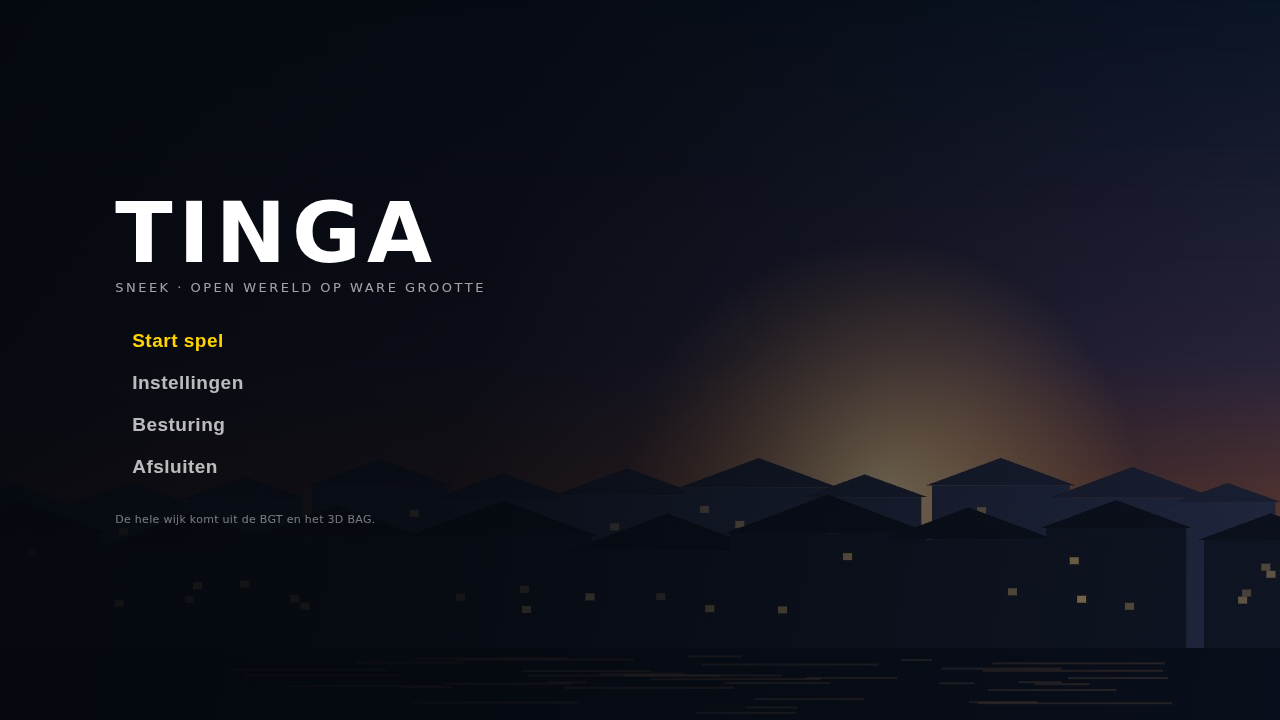
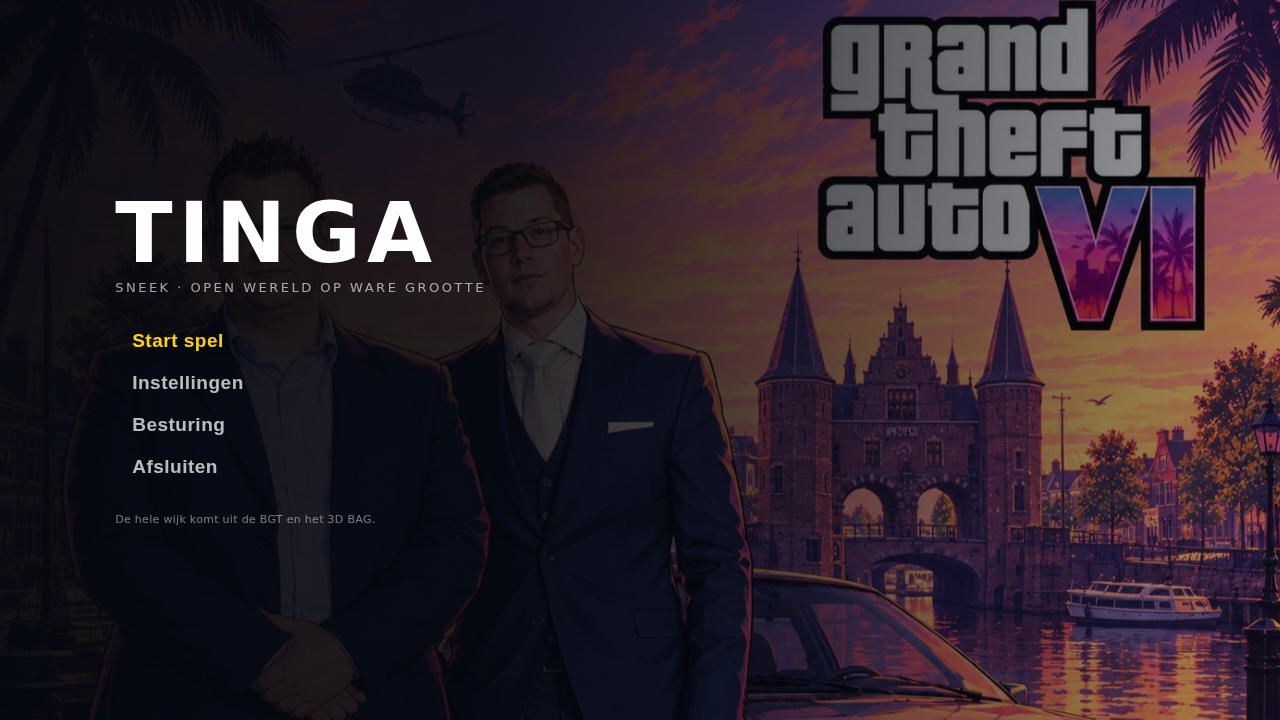
Het aangeleverde beeld op het start- en laadscherm, met langzame inzoom
De gebruiker leverde een affiche aan: de wijk in GTA-VI-stijl. Dat staat nu
op het startscherm en op het laadscherm, in plaats van het silhouet dat
menu.js zelf tekende. Dat nooddoek blijft er wel: is de lijst leeg of laadt
een bestand niet, dan wordt het weer getekend.

Het beeld zoomt in achtentwintig seconden tien procent in, met de vaart er
langzaam uit. Hoever, welk deel in beeld blijft op een breder scherm, en
welke titel er onderin staat, staat per beeld in beelden.json.

Drie dingen moesten kloppen. Het donkere verloop dat de tekst leesbaar
houdt stond als ::after op het doek zelf en zoomde dus mee - de onderrand
schoof binnen een halve minuut het scherm af. Het is nu een eigen laag
eroverheen. Het zoompunt ligt hoog (transform-origin 50% 18%): het affiche
is vier staand op vijf breed en het scherm zestien op negen, dus er gaat
dertig procent van de hoogte af, en om het midden zoomend loopt de titel
van het affiche uit beeld. En een CSS-animatie start alleen opnieuw als hij
eerst van het element af is, vandaar de void offsetWidth ertussen.

Het beeld is met de meegeleverde Chromium van 2,4 MB PNG naar 411 kB JPEG
gebracht; er is in dit project geen beeldgereedschap, maar een canvas kan
het ook. Het gaat mee in de repository, dus voor een openbare versie hoort
daar net als bij de radiomuziek eigen of rechtenvrij werk te staan - dat
staat in beeld/laadscherm/LEESMIJ.md.

Controle: npm run menutest (achttien controles, alles goed; drie nieuwe:
[…]

diff --git a/js/menu.js b/js/menu.js
@@ -19,6 +19,12 @@
  van de wijk bij zonsondergang. Zo werkt het scherm ook zonder dat er ooit een
  plaatje bij komt, en dat is de enige plek in het spel waar een afbeelding uit
  een bestand mag komen.
+
+ Het beeld staat niet stil: het zoomt in achtentwintig seconden een procent of
+ twaalf in, met de vaart er langzaam uit (dezelfde truc als op een echt
+ GTA-laadscherm). Hoever, staat per beeld in `beelden.json`. Het verloop dat de
+ tekst leesbaar houdt ligt in een eigen laag eroverheen en zoomt dus niet mee —
+ anders schuift de donkere onderkant het scherm af terwijl je kijkt.
 */
 
 const TIPS = [
@@ -105,7 +111,38 @@ export async function laadBeelden(pad = 'beeld/laadscherm/beelden.json') {
     beelden = (j.beelden || []).filter(b => b && b.bestand)
       .map(b => ({ ...b, url: pad.replace(/[^/]*$/, '') + b.bestand }));
   } catch { /* geen lijst: het nooddoek doet het ook */ }
+  // het menu staat er al voordat deze lijst binnen is: dan nu pas het echte beeld
+  if (beelden.length && el && el.doek) zetDoek(el.doek, kiesBeeld());
   return beelden;
+}
+
+/*
+ Een achtergrond op een doek zetten en hem langzaam laten inzoomen — zoals een
+ GTA-laadscherm, dat nooit helemaal stilstaat. De animatie moet per keer opnieuw
+ starten; een CSS-animatie doet dat alleen als hij eerst van het element af is,
+ vandaar het lezen van offsetWidth ertussen (dat dwingt de browser tot een
+ herberekening).
+*/
+function zetDoek(doel, b, zoomen = true) {
+  if (!doel) return;
+  doel.style.backgroundImage = `url(${b ? b.url : nooddoek()})`;
+  doel.style.backgroundPosition = (b && b.focus) || 'center';
+  doel.classList.remove('zoomt');
+  if (!zoomen || !b) { doel.style.transform = ''; return; }
+  doel.style.setProperty('--zoom', b.zoom || 1.12);
+  void doel.offsetWidth;
+  doel.classList.add('zoomt');
+}
+
+// Welk beeld komt er in beeld? Eén beeld: altijd dat. Meer: elke keer een ander.
+let vorigBeeld = -1;
+function kiesBeeld() {
+  if (!beelden.length) return null;
+  if (beelden.length === 1) return beelden[0];
+  let i = Math.floor(Math.random() * beelden.length);
+  if (i === vorigBeeld) i = (i + 1) % beelden.length;
+  vorigBeeld = i;
+  return beelden[i];
 }
 
 function knop(tekst, id, opKlik, hoofd = false) {
@@ -130,7 +167,8 @@ export function bouwMenu({ heeftOpslag, opAfsluiten: afsluiten }) {
   const doek = document.createElement('div'); doek.id = 'menudoek';
   // achter het menu hetzelfde beeld als op het laadscherm: bij het opstarten is
   // er nog geen wereld om doorheen te kijken, en een zwarte leegte is geen scherm
-  doek.style.backgroundImage = `url(${nooddoek()})`;
+  zetDoek(doek, kiesBeeld());
+  const waas = document.createElement('div'); waas.id = 'menuwaas';
   const paneel = document.createElement('div'); paneel.className = 'menupaneel';
   const titel = document.createElement('h1'); titel.textContent = 'TINGA';
   const onder = document.createElement('div'); onder.className = 'menuonder'; onder.textContent = 'Sneek · open wereld op ware grootte';
@@ -161,6 +199,7 @@ export function bouwMenu({ heeftOpslag, opAfsluiten: afsluiten }) {
   // het laadscherm zit in dezelfde wortel, zodat het met het menu mee verdwijnt
   const laad = document.createElement('div'); laad.id = 'laadscherm'; laad.hidden = true;
   const laadDoek = document.createElement('div'); laadDoek.id = 'laaddoek';
+  const laadWaas = document.createElement('div'); laadWaas.id = 'laadwaas';
   const laadVoet = document.createElement('div'); laadVoet.id = 'laadvoet';
   const laadTitel = document.createElement('div'); laadTitel.id = 'laadtitel'; laadTitel.textContent = 'TINGA';
   const laadTip = document.createElement('div'); laadTip.id = 'laadtip';
@@ -169,10 +208,10 @@ export function bouwMenu({ heeftOpslag, opAfsluiten: afsluiten }) {
   balk.append(balkIn);
   const laadWat = document.createElement('div'); laadWat.id = 'laadwat';
   laadVoet.append(laadTitel, laadTip, balk, laadWat);
-  laad.append(laadDoek, laadVoet);
+  laad.append(laadDoek, laadWaas, laadVoet);
 
-  wortel.append(doek, paneel, laad);
-  el = { wortel, paneel, lijst, knoppen, zijpaneel, laad, laadDoek, laadTip, balkIn, laadWat };
+  wortel.append(doek, waas, paneel, laad);
+  el = { wortel, doek, paneel, lijst, knoppen, zijpaneel, laad, laadDoek, laadTitel, laadTip, balkIn, laadWat };
   return el;
 }
 
@@ -252,8 +291,9 @@ export function toonLaadscherm() {
   el.wortel.style.display = 'flex';
   el.paneel.hidden = true;
   el.laad.hidden = false;
-  const b = beelden.length ? beelden[Math.floor(Math.random() * beelden.length)] : null;
-  el.laadDoek.style.backgroundImage = `url(${b ? b.url : nooddoek()})`;
+  const b = kiesBeeld();
+  zetDoek(el.laadDoek, b);
+  if (el.laadTitel) el.laadTitel.textContent = (b && b.titel) || 'TINGA';
   el.laadTip.textContent = TIPS[Math.floor(Math.random() * TIPS.length)];
   return (deel, wat) => {
     el.balkIn.style.width = `${Math.round(Math.max(0, Math.min(1, deel)) * 100)}%`;

diff --git a/index.html b/index.html
@@ -80,11 +80,16 @@
   #overlay { position: fixed; inset: 0; display: flex; align-items: center; justify-content: flex-start;
              color: #fff; background: #070b12; z-index: 20; }
   /* de achtergrond van het menu: een donkere waas over het spelbeeld heen */
-  #menudoek { position: absolute; inset: 0; background-size: cover; background-position: center; }
+  /* het zoompunt ligt hoog: zo blijft de bovenkant van het beeld in beeld terwijl
+     er ingezoomd wordt, en zakt alleen de onderrand weg */
+  #menudoek { position: absolute; inset: 0; background-size: cover; background-position: center;
+              transform-origin: 50% 18%; will-change: transform; }
   /* de achtergrond wegvegen aan de kant waar de knoppen staan, zodat de tekst
-     leesbaar blijft en het beeld rechts open blijft */
-  #menudoek::after { content: ""; position: absolute; inset: 0;
-                     background: linear-gradient(100deg, rgba(5,8,14,.96) 0%, rgba(5,8,14,.88) 38%, rgba(5,8,14,.30) 100%); }
+     leesbaar blijft en het beeld rechts open blijft. Dit waas is een eigen laag
+     en geen ::after op het doek: het doek zoomt langzaam in, en een verloop dat
+     meezoomt schuift zijn donkere kant het scherm af. */
+  #menuwaas { position: absolute; inset: 0; pointer-events: none;
+              background: linear-gradient(100deg, rgba(5,8,14,.96) 0%, rgba(5,8,14,.88) 38%, rgba(5,8,14,.30) 100%); }
   /* het paneel blijft binnen het scherm: met de besturing uitgeklapt is het
      langer dan een laptopscherm hoog, en dan viel de titel eraf */
   .menupaneel { position: relative; margin-left: min(9vw, 120px); width: min(430px, 86vw);
@@ -117,9 +122,20 @@
   /* het laadscherm: beeldvullende achtergrond met de balk eronder */
   #laadscherm { position: absolute; inset: 0; background: #05080e; }
   #laadscherm[hidden] { display: none; }
-  #laaddoek { position: absolute; inset: 0; background-size: cover; background-position: center; }
-  #laaddoek::after { content: ""; position: absolute; inset: 0;
-                     background: linear-gradient(to bottom, rgba(5,8,14,.15) 40%, rgba(5,8,14,.92) 100%); }
+  #laaddoek { position: absolute; inset: 0; background-size: cover; background-position: center;
+              transform-origin: 50% 18%; will-change: transform; }
+  #laadwaas { position: absolute; inset: 0; pointer-events: none;
+              background: linear-gradient(to bottom, rgba(5,8,14,.15) 40%, rgba(5,8,14,.92) 100%); }
+  /* Langzaam inzoomen, zoals op een GTA-laadscherm: het beeld staat stil genoeg
+     om naar te kijken en leeft toch. De eindschaal komt uit beelden.json en
+     wordt als --zoom meegegeven. Wie 'beweging beperken' aan heeft staan krijgt
+     een stilstaand beeld. */
+  .zoomt { animation: laadzoom 28s cubic-bezier(.17,.67,.35,1) forwards; }
+  @keyframes laadzoom {
+    from { transform: scale(1); }
+    to   { transform: scale(var(--zoom, 1.12)); }
+  }
+  @media (prefers-reduced-motion: reduce) { .zoomt { animation: none; } }
   #laadvoet { position: absolute; left: min(7vw, 90px); right: min(7vw, 90px); bottom: min(9vh, 64px); }
   #laadtitel { font-size: clamp(30px, 4.6vw, 54px); font-weight: 800; letter-spacing: 6px; }
   #laadtip { font-size: 14px; opacity: .75; margin: 6px 0 18px; max-width: 620px; line-height: 1.45; }

diff --git a/docs/METHODIEK.md b/docs/METHODIEK.md
@@ -259,7 +259,7 @@ naar `main` om een build te krijgen.
 | Tennispark Molenkrite (stap 40) | `npm run tennistest` | eindigt op "Alles goed" |
 | De vijf panden uit de steekproef (stap 41) | `npm run steekproeftest` | eindigt op "Alles goed" |
 | Botsgevoel en geluid (stap 42) | `npm run gevoeltest` | eindigt op "Alles goed" |
-| Startscherm, laadscherm en opbouw (stap 43) | `npm run menutest` | eindigt op "Alles goed" |
+| Startscherm, laadscherm en opbouw (stap 43, 45) | `npm run menutest` | eindigt op "Alles goed" |
 | De losse punten uit de beta-test (stap 44) | `npm run betatest` | eindigt op "Alles goed" |
 | Snelheid: draw calls, driehoeken, geheugen | `npm run audit` (met `?relief=0` voor de kale stand) | de wereld is sinds stap 22 zes keer zo groot; de meting is nu een vergelijking met de vorige ronde, geen vaste bovengrens |
 
@@ -2956,7 +2956,28 @@ achtergrond op een canvas: een rij daken bij zonsondergang met verlichte ramen.
 Zo werkt het scherm ook leeg, en het blijft waar: dit is naast de radio de enige
 plek in het spel waar een afbeelding uit een bestand mag komen.
 
-Controle: `npm run menutest` (vijftien controles) en `npm run menushots`.
+Controle: `npm run menutest` (achttien controles) en `npm run menushots`.
+
+*Het beeld erop (stap 45).* De gebruiker leverde er een aan: een GTA-VI-affiche
+van de wijk. Het staat nu op het startscherm én op het laadscherm, en het zoomt
+in achtentwintig seconden tien procent in met de vaart er langzaam uit
+(`cubic-bezier(.17,.67,.35,1)`), zoals een echt laadscherm van dat spel. Drie
+dingen bleken te moeten kloppen:
+
+- *het verloop mag niet meezoomen.* Het stond als `::after` op het doek zelf, en
+  dan schaalt het mee: de donkere onderrand schuift het scherm af en de
+  voortgangsbalk wordt onleesbaar. Het is nu een eigen laag eroverheen;
+- *het zoompunt ligt hoog* (`transform-origin: 50% 18%`). Het affiche is vier
+  staand op vijf breed en het scherm zestien op negen, dus er gaat hoe dan ook
+  dertig procent van de hoogte af. Zoom je om het midden, dan loopt de bovenkant
+  — met de titel van het affiche erin — binnen een halve minuut uit beeld;
+- *de animatie moet opnieuw kunnen starten.* Een CSS-animatie begint alleen
+  opnieuw als hij eerst van het element af is; daar staat in `js/menu.js` een
+  `void doel.offsetWidth` tussen, die de browser tot herberekenen dwingt.
+
+Het beeld zelf is met de meegeleverde Chromium van 2,4 MB PNG naar 411 kB JPEG
+gebracht (kwaliteit 0,88) — er is in dit project geen beeldgereedschap, maar een
+canvas kan het ook.
 
 **De losse punten uit de beta-test (stap 44).**
 

diff --git a/beeld/laadscherm/LEESMIJ.md b/beeld/laadscherm/LEESMIJ.md
@@ -1,13 +1,13 @@
 # Beelden voor het laadscherm
 
-Het laadscherm laat een beeld uit de wijk zien terwijl de wereld wordt opgebouwd.
-Zet hier je schermafdrukken neer en noem ze in `beelden.json`:
+Het laadscherm en het startscherm laten hetzelfde beeld zien terwijl de wereld
+wordt opgebouwd. Zet hier je afbeeldingen neer en noem ze in `beelden.json`:
 
 ```json
 {
   "beelden": [
-    { "bestand": "molenkrite.jpg", "plek": "Molenkrite" },
-    { "bestand": "rondweg.jpg",    "plek": "Lemmerweg" }
+    { "bestand": "tinga_vi.jpg", "titel": "Tinga VI", "focus": "50% 10%", "zoom": 1.1 },
+    { "bestand": "molenkrite.jpg", "plek": "Molenkrite" }
   ]
 }
 ```
@@ -17,9 +17,26 @@ Zet hier je schermafdrukken neer en noem ze in `beelden.json`:
   voortgangsbalk eroverheen;
 - `.jpg` of `.png`; jpg op kwaliteit 80 is ruim genoeg en scheelt een paar
   honderd kilobyte per beeld;
-- `plek` is optioneel en doet op dit moment niets in beeld; het staat er zodat
-  duidelijk blijft waar een afdruk vandaan komt.
+- `titel` vervangt het woord TINGA onderin het laadscherm. Weglaten mag;
+- `focus` is de CSS `background-position`: welk deel van het beeld in beeld
+  blijft als het scherm een andere verhouding heeft dan de afbeelding. `50% 10%`
+  houdt de bovenkant vast en snijdt onderaan weg, `50% 50%` snijdt boven en
+  onder evenveel weg;
+- `zoom` is hoever er in achtentwintig seconden ingezoomd wordt: `1.1` is tien
+  procent. Dat is met opzet weinig — je moet het zien als je erop let en niet
+  als je ernaar kijkt, net als op een echt GTA-laadscherm. Zet `1` om het beeld
+  stil te zetten; wie in zijn systeem "beweging beperken" aan heeft staan krijgt
+  sowieso een stilstaand beeld;
+- `plek` is optioneel en doet niets in beeld; het staat er zodat duidelijk
+  blijft waar een afdruk vandaan komt.
+
+Staan er meer beelden in de lijst, dan komt er elke keer een ander in beeld (en
+nooit twee keer achter elkaar hetzelfde).
 
 Is de lijst leeg, ontbreekt een bestand of gaat het ophalen mis, dan tekent
 `js/menu.js` zelf een achtergrond op een canvas — een silhouet van de wijk bij
 zonsondergang. Het spel start dus ook zonder dat hier iets staat.
+
+Let op: een beeld dat je hier neerzet gaat mee in de repository. Voor een
+openbare versie hoort daar dus eigen of rechtenvrij werk te staan, net als bij
+de muziek in `audio/radio/`.

diff --git a/README.md b/README.md
@@ -321,8 +321,15 @@ gebruikt. Riet: **29 → 4,3 s**.
 | langste bevriezing tijdens de opbouw | 43 s | **4,1 s** |
 
 De beelden voor het laadscherm staan in [`beeld/laadscherm/`](beeld/laadscherm/) met een lijstje in
-`beelden.json` — zet daar je eigen schermafdrukken neer. Is er niets, dan tekent `js/menu.js` zelf een
+`beelden.json` — zet daar je eigen beelden neer. Is er niets, dan tekent `js/menu.js` zelf een
 achtergrond op een canvas, dus het werkt ook leeg.
+
+Het beeld staat niet stil: het **zoomt in achtentwintig seconden een procent of tien in**, met de vaart
+er langzaam uit — zoals een echt GTA-laadscherm. Per beeld staat in `beelden.json` hoever (`zoom`),
+welk deel in beeld blijft op een breder scherm (`focus`) en wat er onderin als titel staat (`titel`).
+Het donkere verloop dat de tekst leesbaar houdt ligt in een eigen laag en zoomt níét mee, anders schuift
+de onderrand het scherm af terwijl je kijkt. Wie in zijn systeem "beweging beperken" aan heeft staan
+krijgt een stilstaand beeld.
 
 ## Botsgevoel en geluid
 
